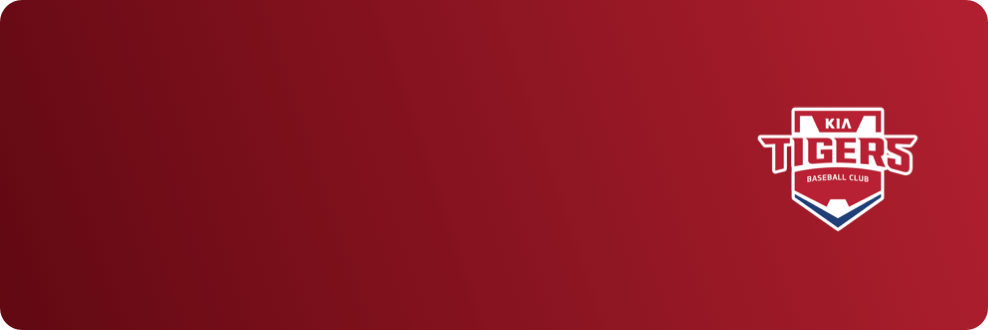
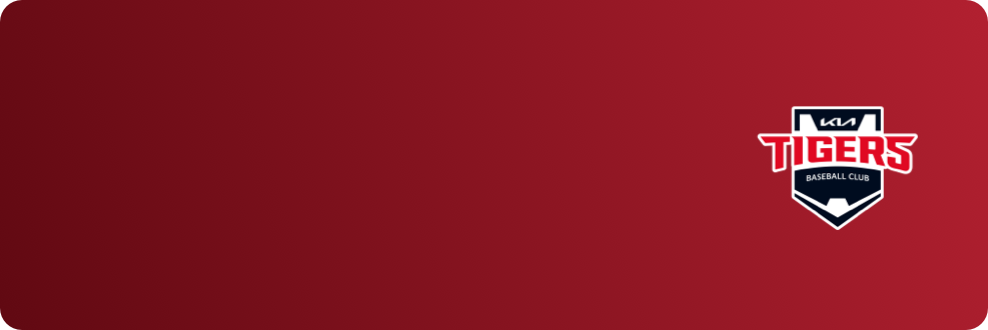
금일 신세계랜더스 테마 img, css

Changed region(s): [[0.7591, 0.303, 0.9413, 0.697]]

diff --git a/res/css/theme.css b/res/css/theme.css
@@ -207,7 +207,7 @@
 [data-theme="theme_OB"] .modal .bg_gradient {background-image: linear-gradient(to bottom, #1b335c -15%, #192a57 116%);}
 [data-theme="theme_HT"] .modal .bg_gradient {background-image: linear-gradient(to bottom, #b22030 -44%, #921925 122%);}
 [data-theme="theme_LT"] .modal .bg_gradient {background-image: linear-gradient(to bottom, #092e63 -866%, #b70522 172%, #a30a29 172%);}
-[data-theme="theme_SSG"] .modal .bg_gradient {background-image: linear-gradient(to bottom, #f45b25 -249%, #dd4936 -74%, #97001c 340%);}
+[data-theme="theme_SSG"] .modal .bg_gradient {background-image: linear-gradient(to bottom, #d03c31, #c12c2c);}
 .modal .bg_gradient.mlb {background-image: linear-gradient(to bottom, #013578 -28%, #00326e 118%);}
 .modal .bg_gradient.abl {background-image: linear-gradient(to bottom, #013578 -28%, #00326e 118%);}
 
@@ -435,6 +435,7 @@
 .player_info_bg_KT {background-image:url('../images/bg/bg-team-player-kt.png');}
 .player_info_bg_HT {background-image:url('../images/bg/bg-team-player-kia.png');}
 .player_info_bg_LT {background-image:url('../images/bg/bg-team-player-lotte.png');}
+.player_info_bg_SSG {background-image:url('../images/bg/bg-team-player-ssg.png');}
 /*
 [data-theme="theme_default"] .player_info_bg {background-image:url('../images/bg/bg-team-player-lg.png');}
 [data-theme="theme_LG"] .player_info_bg {background-image:url('../images/bg/bg-team-player-lg.png');}
@@ -462,6 +463,7 @@
 .team_schedule_bg_LT {background-image:url('../images/bg/team_schedule_bg_LT.png');}
 .team_schedule_bg_GY {background-image:url('../images/bg/team_schedule_bg_GY.png');}
 .team_schedule_bg_SM {background-image:url('../images/bg/team_schedule_bg_SM.png');}
+.team_schedule_bg_SSG {background-image:url('../images/bg/team_schedule_bg_SSG.png');}
 
 /* Team record ranking bg */
 .team_ranking_bg_LG {background-image:url('../images/bg/bg-team-rangking-lg.png');}
@@ -476,6 +478,7 @@
 .team_ranking_bg_LT {background-image:url('../images/bg/bg-team-rangking-lotte.png');}
 .team_ranking_bg_GY {background-image:url('../images/bg/bg-team-rangking-goyang.png');}
 .team_ranking_bg_SM {background-image:url('../images/bg/bg-team-rangking-sangmu.png');}
+.team_ranking_bg_SSG {background-image:url('../images/bg/bg-team-rangking-ssg.png');}
 
 /* Team player number color */
 .player_no_LG {color:#c10a3a;}
@@ -589,5 +592,48 @@
 [data-theme="theme_HT"] .btn_theme {background-color:#AC1020;color:#ffffff;}
 [data-theme="theme_LT"] .btn_theme {background-color:#C30025;color:#ffffff;}
 [data-theme="theme_SSG"] .btn_theme {background-color:#C8132F;color:#ffffff;}
+
+/* My - main */
+/* basic */
+[data-theme="theme_default"] .my_info.basic {}
+[data-theme="theme_LG"] .my_info.basic {background-image:url('../images/bg/img-my-top-330-lg.png');background-repeat:no-repeat;background-size:100% auto;}
+[data-theme="theme_HH"] .my_info.basic {background-image:url('../images/bg/img-my-top-330-hanwha.png');background-repeat:no-repeat;background-size:100% auto;}
+[data-theme="theme_SS"] .my_info.basic {background-image:url('../images/bg/img-my-top-330-samsung.png');background-repeat:no-repeat;background-size:100% auto;}
+[data-theme="theme_KT"] .my_info.basic {background-image:url('../images/bg/img-my-top-330-kt.png');background-repeat:no-repeat;background-size:100% auto;}
+[data-theme="theme_SK"] .my_info.basic {background-image:url('../images/bg/img-my-top-330-sk.png');background-repeat:no-repeat;background-size:100% auto;}
+[data-theme="theme_WO"] .my_info.basic {background-image:url('../images/bg/img-my-top-330-kiwwom.png');background-repeat:no-repeat;background-size:100% auto;}
+[data-theme="theme_NC"] .my_info.basic {background-image:url('../images/bg/img-my-top-330-nc.png');background-repeat:no-repeat;background-size:100% auto;}
+[data-theme="theme_OB"] .my_info.basic {background-image:url('../images/bg/img-my-top-330-doosan.png');background-repeat:no-repeat;background-size:100% auto;}
+[data-theme="theme_HT"] .my_info.basic {background-image:url('../images/bg/img-my-top-330-kia.png');background-repeat:no-repeat;background-size:100% auto;}
+[data-theme="theme_LT"] .my_info.basic {background-image:url('../images/bg/img-my-top-330-lotte.png');background-repeat:no-repeat;background-size:100% auto;}
+[data-theme="theme_SSG"] .my_info.basic {background-image:url('../images/bg/img-my-top-330-ssg.png');background-repeat:no-repeat;background-size:100% auto;}
+
+/* ios */
+[data-theme="theme_default"] .my_info.ios {}
+[data-theme="theme_LG"] .my_info.ios {background-image:url('../images/bg/img-my-top-400-lg.png');background-repeat:no-repeat;background-size:100% auto;}
+[data-theme="theme_HH"] .my_info.ios {background-image:url('../images/bg/img-my-top-400-hanwha.png');background-repeat:no-repeat;background-size:100% auto;}
+[data-theme="theme_SS"] .my_info.ios {background-image:url('../images/bg/img-my-top-400-samsung.png');background-repeat:no-repeat;background-size:100% auto;}
+[data-theme="theme_KT"] .my_info.ios {background-image:url('../images/bg/img-my-top-400-kt.png');background-repeat:no-repeat;background-size:100% auto;}
+[data-theme="theme_SK"] .my_info.ios {background-image:url('../images/bg/img-my-top-400-sk.png');background-repeat:no-repeat;background-size:100% auto;}
+[data-theme="theme_WO"] .my_info.ios {background-image:url('../images/bg/img-my-top-400-kiwwom.png');background-repeat:no-repeat;background-size:100% auto;}
+[data-theme="theme_NC"] .my_info.ios {background-image:url('../images/bg/img-my-top-400-nc.png');background-repeat:no-repeat;background-size:100% auto;}
+[data-theme="theme_OB"] .my_info.ios {background-image:url('../images/bg/img-my-top-400-doosan.png');background-repeat:no-repeat;background-size:100% auto;}
+[data-theme="theme_HT"] .my_info.ios {background-image:url('../images/bg/img-my-top-400-kia.png');background-repeat:no-repeat;background-size:100% auto;}
+[data-theme="theme_LT"] .my_info.ios {background-image:url('../images/bg/img-my-top-400-lotte.png');background-repeat:no-repeat;background-size:100% auto;}
+[data-theme="theme_SSG"] .my_info.ios {background-image:url('../images/bg/img-my-top-400-ssg.png');background-repeat:no-repeat;background-size:100% auto;}
+
+/* guest */
+[data-theme="theme_default"] .my_info.guest {}
+[data-theme="theme_LG"] .my_info.guest {background-image:url('../images/bg/img-my-top-360-lg.png');background-repeat:no-repeat;background-size:100% auto;}
+[data-theme="theme_HH"] .my_info.guest {background-image:url('../images/bg/img-my-top-360-hanwha.png');background-repeat:no-repeat;background-size:100% auto;}
+[data-theme="theme_SS"] .my_info.guest {background-image:url('../images/bg/img-my-top-360-samsung.png');background-repeat:no-repeat;background-size:100% auto;}
+[data-theme="theme_KT"] .my_info.guest {background-image:url('../images/bg/img-my-top-360-kt.png');background-repeat:no-repeat;background-size:100% auto;}
+[data-theme="theme_SK"] .my_info.guest {background-image:url('../images/bg/img-my-top-360-sk.png');background-repeat:no-repeat;background-size:100% auto;}
+[data-theme="theme_WO"] .my_info.guest {background-image:url('../images/bg/img-my-top-360-kiwwom.png');background-repeat:no-repeat;background-size:100% auto;}
+[data-theme="theme_NC"] .my_info.guest {background-image:url('../images/bg/img-my-top-360-nc.png');background-repeat:no-repeat;background-size:100% auto;}
+[data-theme="theme_OB"] .my_info.guest {background-image:url('../images/bg/img-my-top-360-doosan.png');background-repeat:no-repeat;background-size:100% auto;}
+[data-theme="theme_HT"] .my_info.guest {background-image:url('../images/bg/img-my-top-360-kia.png');background-repeat:no-repeat;background-size:100% auto;}
+[data-theme="theme_LT"] .my_info.guest {background-image:url('../images/bg/img-my-top-360-lotte.png');background-repeat:no-repeat;background-size:100% auto;}
+[data-theme="theme_SSG"] .my_info.guest {background-image:url('../images/bg/img-my-top-360-ssg.png');background-repeat:no-repeat;background-size:100% auto;}
 
 /*******************************************************************************************/

diff --git a/team_days_case.html b/team_days_case.html
@@ -215,7 +215,7 @@
             <div class="main_info info_visual02">                
 			    <div class="inner">
 			        <div class="i_team">
-			            <span class="team_logo team_logo_LG"></span>
+			            <span class="team_logo team_logo_OB"></span>
 			            <span class="ranking">2위</span>
 			            <strong class="name"><i class="bar"></i>두산베어스</strong>
 			        </div>
@@ -250,7 +250,7 @@
             <div class="main_info info_visual03">                
 			    <div class="inner">
 			        <div class="i_team">
-			            <span class="team_logo team_logo_LG"></span>
+			            <span class="team_logo team_logo_HH"></span>
 			            <span class="ranking">3위</span>
 			            <strong class="name"><i class="bar"></i>한화이글스</strong>
 			        </div>
@@ -285,7 +285,7 @@
             <div class="main_info info_visual01">                
 			    <div class="inner">
 			        <div class="i_team">
-			            <span class="team_logo team_logo_LG"></span>
+			            <span class="team_logo team_logo_SK"></span>
 			            <span class="ranking">4위</span>
 			            <strong class="name"><i class="bar"></i>SK와이번스</strong>
 			        </div>
@@ -320,7 +320,7 @@
             <div class="main_info info_visual01">                
 			    <div class="inner">
 			        <div class="i_team">
-			            <span class="team_logo team_logo_LG"></span>
+			            <span class="team_logo team_logo_WO"></span>
 			            <span class="ranking">5위</span>
 			            <strong class="name"><i class="bar"></i>키움히어로즈</strong>
 			        </div>
@@ -355,7 +355,7 @@
             <div class="main_info info_visual01">                
 			    <div class="inner">
 			        <div class="i_team">
-			            <span class="team_logo team_logo_LG"></span>
+			            <span class="team_logo team_logo_LT"></span>
 			            <span class="ranking">6위</span>
 			            <strong class="name"><i class="bar"></i>롯데자이언츠</strong>
 			        </div>
@@ -390,7 +390,7 @@
             <div class="main_info info_visual01">                
 			    <div class="inner">
 			        <div class="i_team">
-			            <span class="team_logo team_logo_LG"></span>
+			            <span class="team_logo team_logo_KT"></span>
 			            <span class="ranking">7위</span>
 			            <strong class="name"><i class="bar"></i>KT위즈</strong>
 			        </div>
@@ -425,7 +425,7 @@
             <div class="main_info info_visual01">                
 			    <div class="inner">
 			        <div class="i_team">
-			            <span class="team_logo team_logo_LG"></span>
+			            <span class="team_logo team_logo_NC"></span>
 			            <span class="ranking">8위</span>
 			            <strong class="name"><i class="bar"></i>NC다이노스</strong>
 			        </div>
@@ -460,7 +460,7 @@
             <div class="main_info info_visual01">                
 			    <div class="inner">
 			        <div class="i_team">
-			            <span class="team_logo team_logo_LG"></span>
+			            <span class="team_logo team_logo_SS"></span>
 			            <span class="ranking">9위</span>
 			            <strong class="name"><i class="bar"></i>삼성라이온즈</strong>
 			        </div>
@@ -495,7 +495,7 @@
             <div class="main_info info_visual01">                
 			    <div class="inner">
 			        <div class="i_team">
-			            <span class="team_logo team_logo_LG"></span>
+			            <span class="team_logo team_logo_HT"></span>
 			            <span class="ranking">10위</span>
 			            <strong class="name"><i class="bar"></i>KIA타이거즈</strong>
 			        </div>
@@ -506,6 +506,41 @@
 			        <div class="sub_desc">
 			        	<span class="i_park">KIA 챔피언스필드</span>
 			        	<span class="i_manager"><i class="bar"></i>맷 윌리엄스 <span>감독</span></span>
+			        </div>
+			        <div class="total_rank_info">
+			            <div class="rank_num">
+			                <div class="i_win">
+			                    <span>승</span>
+			                    <b>33</b>
+			                </div>
+			                <div class="i_draw">
+                                <span>무</span>
+			                    <b>08</b>
+			                </div>
+			                <div class="i_lose">
+			                    <span>패</span>
+			                    <b>12</b>
+			                </div>
+			            </div>
+			            <span class="i_rate">승률 <b>0.552</b></span>
+			        </div>
+			    </div>
+			</div>
+           <!-- 구단정보 : SSG -->
+            <div class="main_info info_visual01">                
+			    <div class="inner">
+			        <div class="i_team">
+			            <span class="team_logo team_logo_SSG"></span>
+			            <span class="ranking">11위</span>
+			            <strong class="name"><i class="bar"></i>SSG 랜더스</strong>
+			        </div>
+			        <div class="slogan">
+			            <strong>SSG LANDERS</strong>
+			            <p>Slogan area, 슬로건 영역</p>			            
+			        </div>
+			        <div class="sub_desc">
+			        	<span class="i_park">문학야구장</span>
+			        	<span class="i_manager"><i class="bar"></i>김원형 <span>감독</span></span>
 			        </div>
 			        <div class="total_rank_info">
 			            <div class="rank_num">

diff --git a/team_record.html b/team_record.html
@@ -637,7 +637,7 @@
                     			</div>
                     		</li>
                     		<li>
-                    			<div class="team_bg team_ranking_bg_SS"> <!-- theme.css : Team record ranking bg -->
+                    			<div class="team_bg team_ranking_bg_HT"> <!-- theme.css : Team record ranking bg -->
                     				<span class="rank_num">1</span>
                     				<span class="title">홈런</span>
                     				<!--<span class="my_team"></span>-->
@@ -659,7 +659,7 @@
                     			</div>
                     		</li>
                     		<li>
-                    			<div class="team_bg team_ranking_bg_OB"> <!-- theme.css : Team record ranking bg -->
+                    			<div class="team_bg team_ranking_bg_SSG"> <!-- theme.css : Team record ranking bg -->
                     				<span class="rank_num">1</span>
                     				<span class="title">승리</span>
                     				<!--<span class="my_team"></span>-->

diff --git a/team_days.html b/team_days.html
@@ -663,7 +663,7 @@
 							<span class="info_tm_cancle">취소</span>
                             <span class="info_tm">내일</span>
                             -->
-                            <div class="schedule_box team_schedule_bg_SS">
+                            <div class="schedule_box team_schedule_bg_SSG">
                                 <span class="i_date">
                                     <span class="date">09.15</span>
                                     <span class="day">(월)</span>

diff --git a/popup_dropdown.html b/popup_dropdown.html
@@ -197,7 +197,13 @@
 					<div class="tit">KIA 타이거즈</div>
 					<span class="my_team"></span>
 				</li>
-
+                <li class="usetap">
+					<input type="radio" name="dd_list3" />
+					<div class="radio_bg"></div>
+					<div class="team_logo team_logo_SSG"></div>
+					<div class="tit">SSG 랜더스</div>
+					<span class="my_team"></span>
+				</li>
 			</ul>
 		</div>
 	</div>
